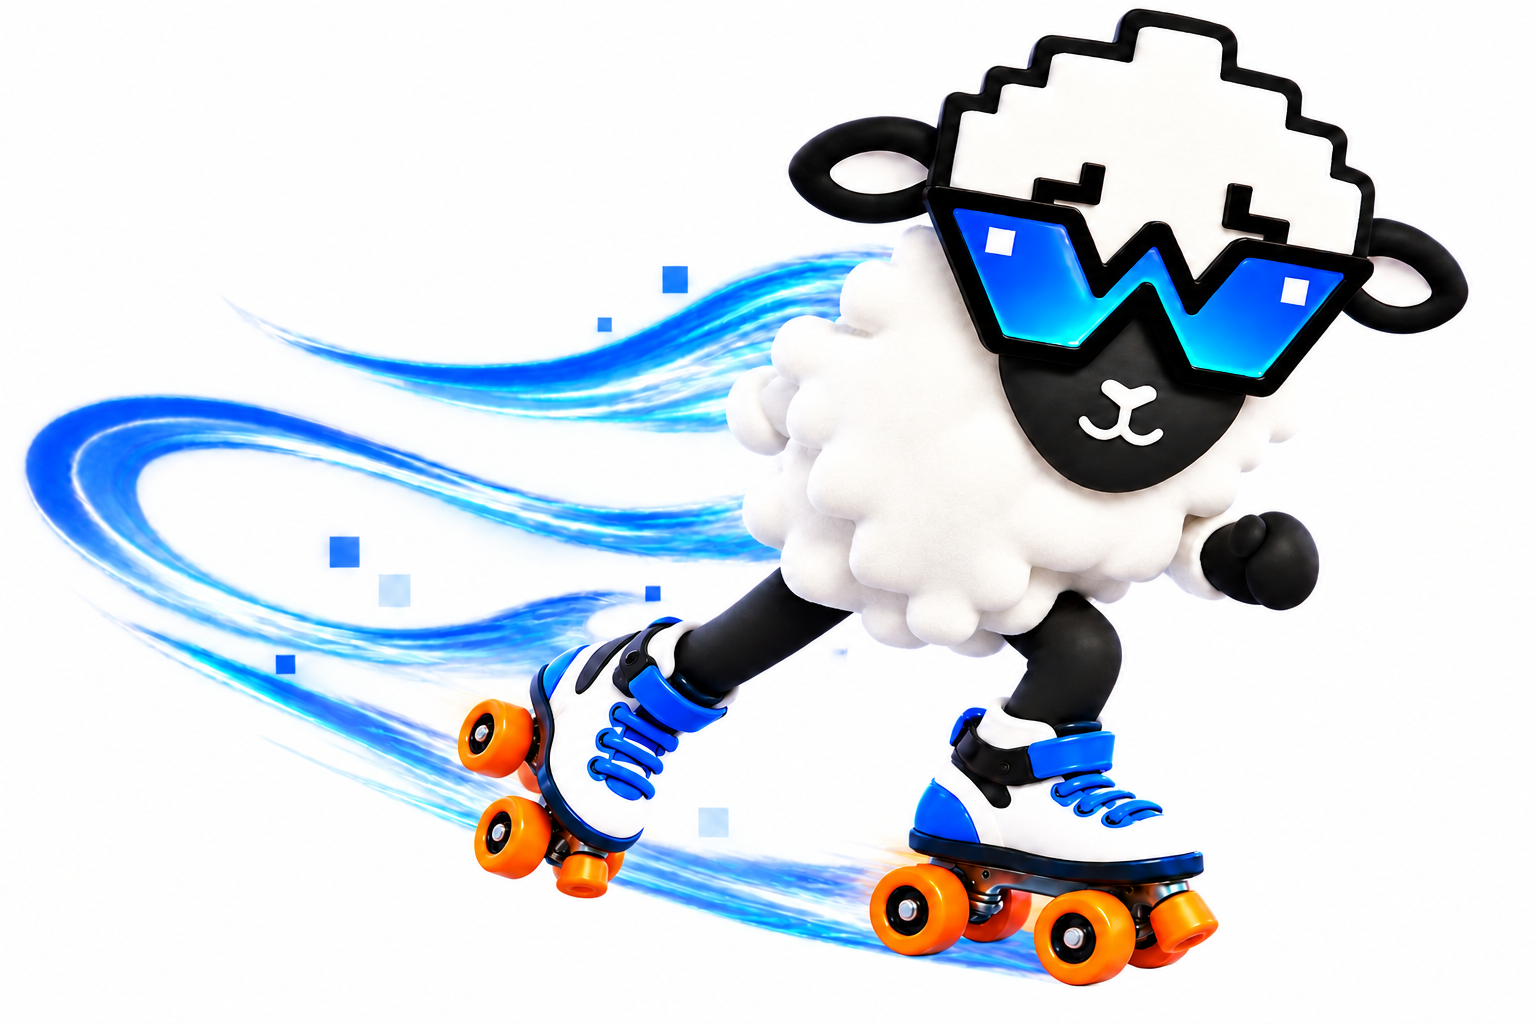
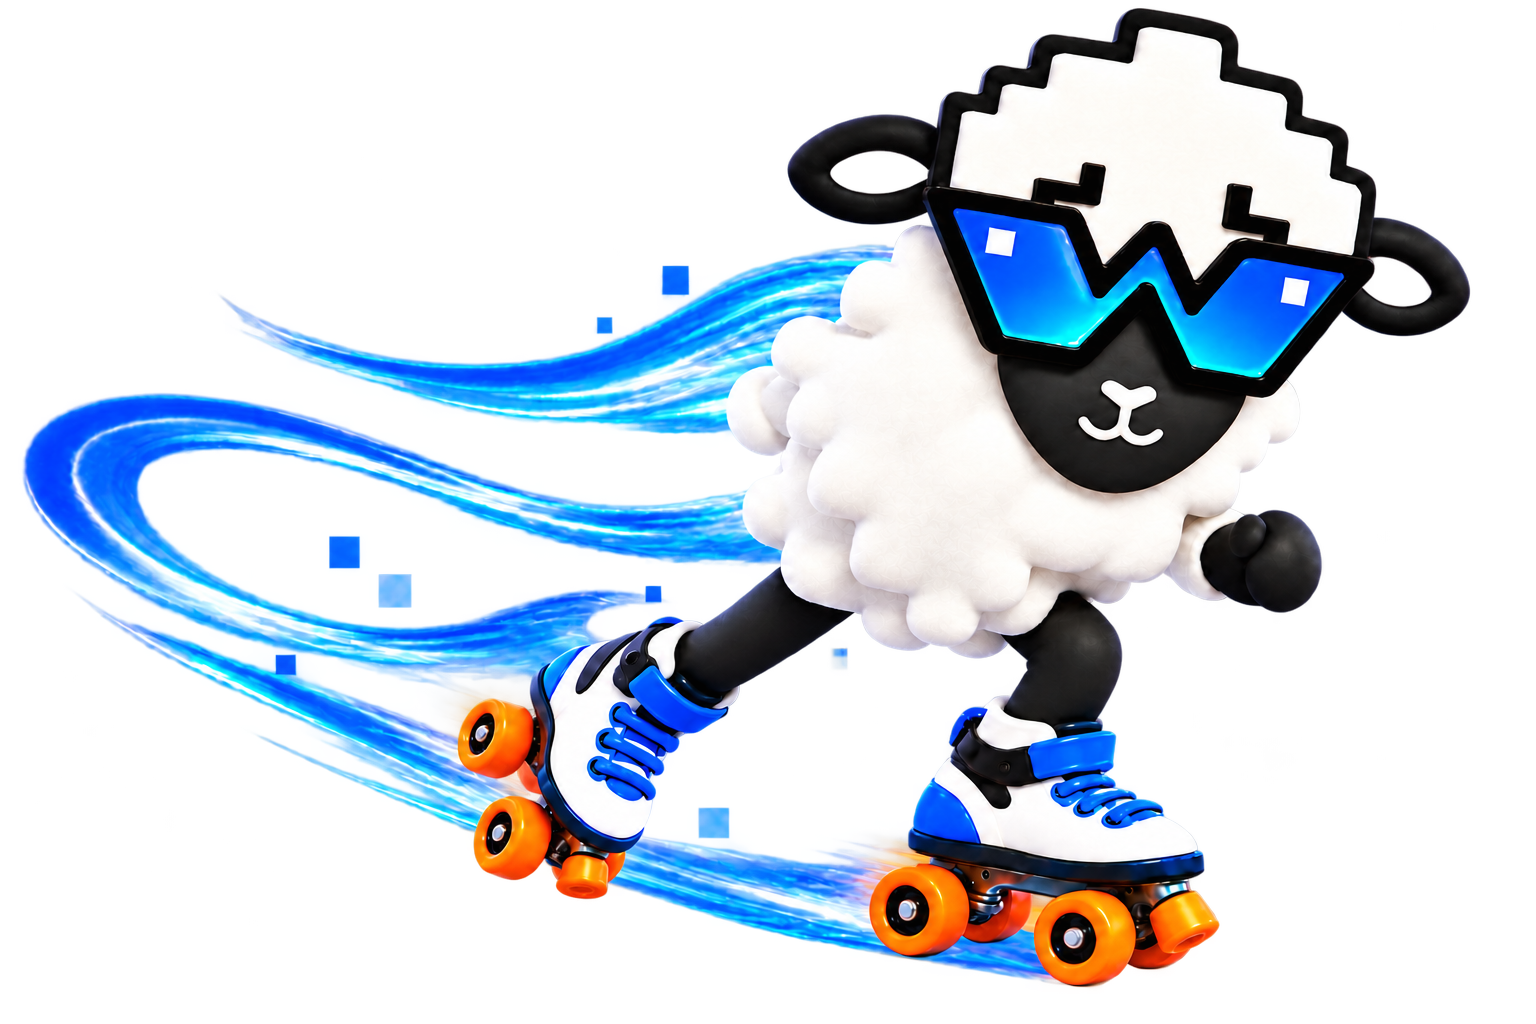
Remove animation frame backgrounds and slow the skate

diff --git a/dist/index.html b/dist/index.html
@@ -10,7 +10,7 @@
   <style>
     :root{--ink:#081328;--blue:#075cff;--sky:#60c8d3;--orange:#f06b38;--mint:#eaf8e0;--pale:#f5f9fb;--line:#dbe5e9;--muted:#5f6d7a;--max:1220px}*{box-sizing:border-box;margin:0;padding:0}html{scroll-behavior:smooth}body{background:#fff;color:var(--ink);font:400 16px/1.6 "DM Sans",sans-serif;-webkit-font-smoothing:antialiased}a{color:inherit}img{display:block;max-width:100%}.wrap{width:min(var(--max),calc(100% - 48px));margin:auto}.mono{font:500 12px/1.4 "DM Mono",monospace;letter-spacing:.15em;text-transform:uppercase}.announcement{background:var(--mint);padding:8px 20px;text-align:center;color:#384b38;font:400 11px/1.4 "DM Mono",monospace;letter-spacing:.12em;text-transform:uppercase}.announcement a{text-decoration:none;border-bottom:1px solid currentColor}
     header{position:sticky;top:0;z-index:30;background:rgba(255,255,255,.9);backdrop-filter:blur(18px);border-bottom:1px solid rgba(8,19,40,.08)}.nav{height:76px;display:grid;grid-template-columns:1fr auto 1fr;align-items:center}.nav-links{display:flex;gap:30px;list-style:none}.nav-links a{text-decoration:none;font-size:14px;color:#344052}.nav-links a:hover{color:var(--blue)}.brand{width:170px;height:56px;overflow:hidden;position:relative}.brand img{position:absolute;width:170px;top:-4px;left:0}.nav-action{justify-self:end}.button{display:inline-flex;align-items:center;justify-content:center;gap:10px;border:0;border-radius:5px;padding:15px 23px;background:var(--sky);color:var(--ink);text-decoration:none;font:500 12px/1 "DM Mono",monospace;letter-spacing:.12em;text-transform:uppercase;box-shadow:inset 0 -2px rgba(0,0,0,.1);transition:.2s}.button:hover{background:var(--blue);color:white;transform:translateY(-2px)}
-    .hero{height:800px;padding:62px 0 0;text-align:center;position:relative;overflow:hidden;background:#fff}.hero>.wrap{position:relative;height:100%;z-index:1}.hero-message{position:relative;z-index:3}.hero-message::before{content:"";position:absolute;inset:-35px 8% -28px;z-index:-1;background:radial-gradient(ellipse,rgba(255,255,255,.98) 35%,rgba(255,255,255,.86) 68%,transparent 100%)}.hero .mono{color:#334255;font-weight:500}.hero h1{font:600 clamp(54px,7vw,94px)/.94 "DM Sans",sans-serif;letter-spacing:-.065em;max-width:12ch;margin:22px auto 0;text-shadow:0 2px 0 #fff,0 0 24px #fff}.hero h1 em{font-family:"Instrument Serif",serif;font-weight:400;color:var(--orange);letter-spacing:-.03em}.hero p{font-size:18px;line-height:1.6;color:#3d4a58;font-weight:500;max-width:650px;margin:26px auto;text-shadow:0 1px 12px #fff}.hero .button{margin-top:8px}.skate-stage{position:absolute;inset:0;overflow:hidden;z-index:1;pointer-events:none}.skate-stage::before,.skate-stage::after{content:"";position:absolute;left:-20%;top:49%;width:150%;height:110px;border:3px solid rgba(96,200,211,.15);border-color:rgba(96,200,211,.18) transparent transparent;border-radius:50%;transform:rotate(18deg);animation:trail-drift 7s ease-in-out infinite alternate}.skate-stage::after{top:55%;transform:rotate(16deg);animation-delay:-3.5s}.skater{position:absolute;height:220px;aspect-ratio:3/2;left:0;top:0;filter:drop-shadow(0 12px 16px rgba(8,19,40,.08));animation:skate 16s cubic-bezier(.45,.05,.3,1) infinite;will-change:transform;transform-origin:50% 70%}.roller{position:absolute;inset:0;width:100%;height:100%;object-fit:contain;opacity:0;mix-blend-mode:multiply;will-change:opacity;-webkit-mask-image:radial-gradient(ellipse 74% 66% at 58% 54%,#000 52%,rgba(0,0,0,.82) 70%,transparent 100%);mask-image:radial-gradient(ellipse 74% 66% at 58% 54%,#000 52%,rgba(0,0,0,.82) 70%,transparent 100%)}.roller:nth-child(1){animation:phase-one 1.56s ease-in-out infinite}.roller:nth-child(2){animation:phase-two 1.56s ease-in-out infinite}.roller:nth-child(3){animation:phase-three 1.56s ease-in-out infinite}
+    .hero{height:800px;padding:62px 0 0;text-align:center;position:relative;overflow:hidden;background:#fff}.hero>.wrap{position:relative;height:100%;z-index:1}.hero-message{position:relative;z-index:3}.hero-message::before{content:"";position:absolute;inset:-35px 8% -28px;z-index:-1;background:radial-gradient(ellipse,rgba(255,255,255,.98) 35%,rgba(255,255,255,.86) 68%,transparent 100%)}.hero .mono{color:#334255;font-weight:500}.hero h1{font:600 clamp(54px,7vw,94px)/.94 "DM Sans",sans-serif;letter-spacing:-.065em;max-width:12ch;margin:22px auto 0;text-shadow:0 2px 0 #fff,0 0 24px #fff}.hero h1 em{font-family:"Instrument Serif",serif;font-weight:400;color:var(--orange);letter-spacing:-.03em}.hero p{font-size:18px;line-height:1.6;color:#3d4a58;font-weight:500;max-width:650px;margin:26px auto;text-shadow:0 1px 12px #fff}.hero .button{margin-top:8px}.skate-stage{position:absolute;inset:0;overflow:hidden;z-index:1;pointer-events:none}.skate-stage::before,.skate-stage::after{content:"";position:absolute;left:-20%;top:49%;width:150%;height:110px;border:3px solid rgba(96,200,211,.15);border-color:rgba(96,200,211,.18) transparent transparent;border-radius:50%;transform:rotate(18deg);animation:trail-drift 9s ease-in-out infinite alternate}.skate-stage::after{top:55%;transform:rotate(16deg);animation-delay:-4.5s}.skater{position:absolute;height:220px;aspect-ratio:3/2;left:0;top:0;filter:drop-shadow(0 12px 16px rgba(8,19,40,.08));animation:skate 22s cubic-bezier(.45,.05,.3,1) infinite;will-change:transform;transform-origin:50% 70%}.roller{position:absolute;inset:0;width:100%;height:100%;object-fit:contain;opacity:0;will-change:opacity}.roller:nth-child(1){animation:phase-one 1.8s ease-in-out infinite}.roller:nth-child(2){animation:phase-two 1.8s ease-in-out infinite}.roller:nth-child(3){animation:phase-three 1.8s ease-in-out infinite}
     @keyframes skate{0%{transform:translate(-110%,100px) rotate(-4deg)}15%{transform:translate(5vw,155px) rotate(-1deg)}36%{transform:translate(29vw,270px) rotate(2deg)}61%{transform:translate(58vw,410px) rotate(4deg)}82%{transform:translate(83vw,525px) rotate(6deg)}100%{transform:translate(110vw,620px) rotate(7deg)}}@keyframes phase-one{0%,20%{opacity:1}34%,86%{opacity:0}100%{opacity:1}}@keyframes phase-two{0%,20%{opacity:0}34%,53%{opacity:1}67%,100%{opacity:0}}@keyframes phase-three{0%,53%{opacity:0}67%,86%{opacity:1}100%{opacity:0}}@keyframes trail-drift{to{translate:-3% 8px}}
     .ticker{border-top:1px solid var(--line);border-bottom:1px solid var(--line);overflow:hidden;background:white}.ticker-track{display:flex;width:max-content;animation:move 30s linear infinite}.ticker-item{min-width:270px;padding:23px 40px;border-right:1px solid var(--line);display:flex;gap:15px;align-items:baseline}.ticker-item b{font:400 33px/1 "Instrument Serif",serif}.ticker-item span{color:var(--muted);font:400 11px/1.3 "DM Mono",monospace;text-transform:uppercase;letter-spacing:.1em}@keyframes move{to{transform:translateX(-50%)}}
     .experience{padding:78px 0;border-bottom:1px solid var(--line);background:var(--pale)}.experience-head{text-align:center;margin-bottom:34px}.experience-head .mono{color:var(--blue)}.experience-head h2{font:400 clamp(32px,3.5vw,48px)/1 "Instrument Serif",serif;margin-top:13px}.tech-grid{display:grid;grid-template-columns:repeat(3,1fr);gap:12px}.tech{height:118px;background:#fff;border:1px solid var(--line);border-radius:14px;display:grid;place-items:center;padding:26px 34px;transition:.2s}.tech:hover{transform:translateY(-3px);box-shadow:0 16px 36px rgba(8,19,40,.07)}.tech img{width:100%;height:62px;object-fit:contain}.tech.salesforce img{height:72px}.tech.mulesoft img{height:56px}.tech.lobster img{height:66px}.tech.solana img{height:54px}

diff --git a/index.html b/index.html
@@ -10,7 +10,7 @@
   <style>
     :root{--ink:#081328;--blue:#075cff;--sky:#60c8d3;--orange:#f06b38;--mint:#eaf8e0;--pale:#f5f9fb;--line:#dbe5e9;--muted:#5f6d7a;--max:1220px}*{box-sizing:border-box;margin:0;padding:0}html{scroll-behavior:smooth}body{background:#fff;color:var(--ink);font:400 16px/1.6 "DM Sans",sans-serif;-webkit-font-smoothing:antialiased}a{color:inherit}img{display:block;max-width:100%}.wrap{width:min(var(--max),calc(100% - 48px));margin:auto}.mono{font:500 12px/1.4 "DM Mono",monospace;letter-spacing:.15em;text-transform:uppercase}.announcement{background:var(--mint);padding:8px 20px;text-align:center;color:#384b38;font:400 11px/1.4 "DM Mono",monospace;letter-spacing:.12em;text-transform:uppercase}.announcement a{text-decoration:none;border-bottom:1px solid currentColor}
     header{position:sticky;top:0;z-index:30;background:rgba(255,255,255,.9);backdrop-filter:blur(18px);border-bottom:1px solid rgba(8,19,40,.08)}.nav{height:76px;display:grid;grid-template-columns:1fr auto 1fr;align-items:center}.nav-links{display:flex;gap:30px;list-style:none}.nav-links a{text-decoration:none;font-size:14px;color:#344052}.nav-links a:hover{color:var(--blue)}.brand{width:170px;height:56px;overflow:hidden;position:relative}.brand img{position:absolute;width:170px;top:-4px;left:0}.nav-action{justify-self:end}.button{display:inline-flex;align-items:center;justify-content:center;gap:10px;border:0;border-radius:5px;padding:15px 23px;background:var(--sky);color:var(--ink);text-decoration:none;font:500 12px/1 "DM Mono",monospace;letter-spacing:.12em;text-transform:uppercase;box-shadow:inset 0 -2px rgba(0,0,0,.1);transition:.2s}.button:hover{background:var(--blue);color:white;transform:translateY(-2px)}
-    .hero{height:800px;padding:62px 0 0;text-align:center;position:relative;overflow:hidden;background:#fff}.hero>.wrap{position:relative;height:100%;z-index:1}.hero-message{position:relative;z-index:3}.hero-message::before{content:"";position:absolute;inset:-35px 8% -28px;z-index:-1;background:radial-gradient(ellipse,rgba(255,255,255,.98) 35%,rgba(255,255,255,.86) 68%,transparent 100%)}.hero .mono{color:#334255;font-weight:500}.hero h1{font:600 clamp(54px,7vw,94px)/.94 "DM Sans",sans-serif;letter-spacing:-.065em;max-width:12ch;margin:22px auto 0;text-shadow:0 2px 0 #fff,0 0 24px #fff}.hero h1 em{font-family:"Instrument Serif",serif;font-weight:400;color:var(--orange);letter-spacing:-.03em}.hero p{font-size:18px;line-height:1.6;color:#3d4a58;font-weight:500;max-width:650px;margin:26px auto;text-shadow:0 1px 12px #fff}.hero .button{margin-top:8px}.skate-stage{position:absolute;inset:0;overflow:hidden;z-index:1;pointer-events:none}.skate-stage::before,.skate-stage::after{content:"";position:absolute;left:-20%;top:49%;width:150%;height:110px;border:3px solid rgba(96,200,211,.15);border-color:rgba(96,200,211,.18) transparent transparent;border-radius:50%;transform:rotate(18deg);animation:trail-drift 7s ease-in-out infinite alternate}.skate-stage::after{top:55%;transform:rotate(16deg);animation-delay:-3.5s}.skater{position:absolute;height:220px;aspect-ratio:3/2;left:0;top:0;filter:drop-shadow(0 12px 16px rgba(8,19,40,.08));animation:skate 16s cubic-bezier(.45,.05,.3,1) infinite;will-change:transform;transform-origin:50% 70%}.roller{position:absolute;inset:0;width:100%;height:100%;object-fit:contain;opacity:0;mix-blend-mode:multiply;will-change:opacity;-webkit-mask-image:radial-gradient(ellipse 74% 66% at 58% 54%,#000 52%,rgba(0,0,0,.82) 70%,transparent 100%);mask-image:radial-gradient(ellipse 74% 66% at 58% 54%,#000 52%,rgba(0,0,0,.82) 70%,transparent 100%)}.roller:nth-child(1){animation:phase-one 1.56s ease-in-out infinite}.roller:nth-child(2){animation:phase-two 1.56s ease-in-out infinite}.roller:nth-child(3){animation:phase-three 1.56s ease-in-out infinite}
+    .hero{height:800px;padding:62px 0 0;text-align:center;position:relative;overflow:hidden;background:#fff}.hero>.wrap{position:relative;height:100%;z-index:1}.hero-message{position:relative;z-index:3}.hero-message::before{content:"";position:absolute;inset:-35px 8% -28px;z-index:-1;background:radial-gradient(ellipse,rgba(255,255,255,.98) 35%,rgba(255,255,255,.86) 68%,transparent 100%)}.hero .mono{color:#334255;font-weight:500}.hero h1{font:600 clamp(54px,7vw,94px)/.94 "DM Sans",sans-serif;letter-spacing:-.065em;max-width:12ch;margin:22px auto 0;text-shadow:0 2px 0 #fff,0 0 24px #fff}.hero h1 em{font-family:"Instrument Serif",serif;font-weight:400;color:var(--orange);letter-spacing:-.03em}.hero p{font-size:18px;line-height:1.6;color:#3d4a58;font-weight:500;max-width:650px;margin:26px auto;text-shadow:0 1px 12px #fff}.hero .button{margin-top:8px}.skate-stage{position:absolute;inset:0;overflow:hidden;z-index:1;pointer-events:none}.skate-stage::before,.skate-stage::after{content:"";position:absolute;left:-20%;top:49%;width:150%;height:110px;border:3px solid rgba(96,200,211,.15);border-color:rgba(96,200,211,.18) transparent transparent;border-radius:50%;transform:rotate(18deg);animation:trail-drift 9s ease-in-out infinite alternate}.skate-stage::after{top:55%;transform:rotate(16deg);animation-delay:-4.5s}.skater{position:absolute;height:220px;aspect-ratio:3/2;left:0;top:0;filter:drop-shadow(0 12px 16px rgba(8,19,40,.08));animation:skate 22s cubic-bezier(.45,.05,.3,1) infinite;will-change:transform;transform-origin:50% 70%}.roller{position:absolute;inset:0;width:100%;height:100%;object-fit:contain;opacity:0;will-change:opacity}.roller:nth-child(1){animation:phase-one 1.8s ease-in-out infinite}.roller:nth-child(2){animation:phase-two 1.8s ease-in-out infinite}.roller:nth-child(3){animation:phase-three 1.8s ease-in-out infinite}
     @keyframes skate{0%{transform:translate(-110%,100px) rotate(-4deg)}15%{transform:translate(5vw,155px) rotate(-1deg)}36%{transform:translate(29vw,270px) rotate(2deg)}61%{transform:translate(58vw,410px) rotate(4deg)}82%{transform:translate(83vw,525px) rotate(6deg)}100%{transform:translate(110vw,620px) rotate(7deg)}}@keyframes phase-one{0%,20%{opacity:1}34%,86%{opacity:0}100%{opacity:1}}@keyframes phase-two{0%,20%{opacity:0}34%,53%{opacity:1}67%,100%{opacity:0}}@keyframes phase-three{0%,53%{opacity:0}67%,86%{opacity:1}100%{opacity:0}}@keyframes trail-drift{to{translate:-3% 8px}}
     .ticker{border-top:1px solid var(--line);border-bottom:1px solid var(--line);overflow:hidden;background:white}.ticker-track{display:flex;width:max-content;animation:move 30s linear infinite}.ticker-item{min-width:270px;padding:23px 40px;border-right:1px solid var(--line);display:flex;gap:15px;align-items:baseline}.ticker-item b{font:400 33px/1 "Instrument Serif",serif}.ticker-item span{color:var(--muted);font:400 11px/1.3 "DM Mono",monospace;text-transform:uppercase;letter-spacing:.1em}@keyframes move{to{transform:translateX(-50%)}}
     .experience{padding:78px 0;border-bottom:1px solid var(--line);background:var(--pale)}.experience-head{text-align:center;margin-bottom:34px}.experience-head .mono{color:var(--blue)}.experience-head h2{font:400 clamp(32px,3.5vw,48px)/1 "Instrument Serif",serif;margin-top:13px}.tech-grid{display:grid;grid-template-columns:repeat(3,1fr);gap:12px}.tech{height:118px;background:#fff;border:1px solid var(--line);border-radius:14px;display:grid;place-items:center;padding:26px 34px;transition:.2s}.tech:hover{transform:translateY(-3px);box-shadow:0 16px 36px rgba(8,19,40,.07)}.tech img{width:100%;height:62px;object-fit:contain}.tech.salesforce img{height:72px}.tech.mulesoft img{height:56px}.tech.lobster img{height:66px}.tech.solana img{height:54px}
